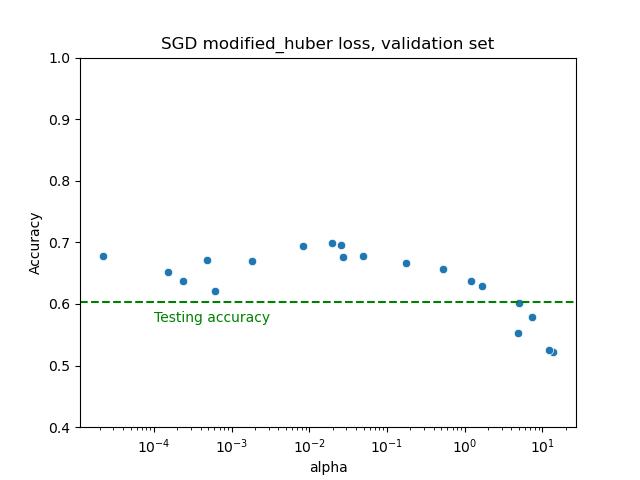
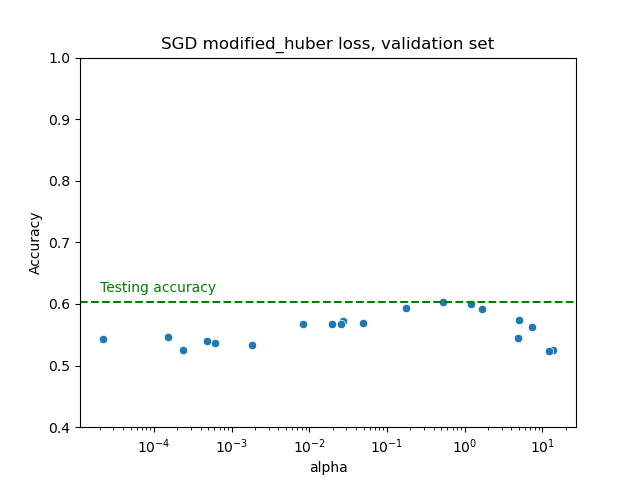
final tweaks ex1

diff --git a/group17/simple_cats_dogs.py b/group17/simple_cats_dogs.py
@@ -66,7 +66,7 @@ for i in ks:
 best_k = ks[np.argmax(valid_acc_KNN)]
 print("bestes k:", best_k)
 
-model = KNN(3072, train_ds.num_classes(), best_k)  # statt i best?
+model = KNN(3072, train_ds.num_classes(), best_k)
 model.train(train.data, train.label)
 acc.reset()
 acc.update(model.predict(test.data), test.label)
@@ -152,20 +152,20 @@ plt.close()
 df_SGD = pd.DataFrame({'alpha': used_alpha, 'loss': used_loss, 'Training': train_acc_SGD, 'Validation': valid_acc_SGD})
 #df_SGD = df_SGD.set_index('alpha')
 
-p2 = sns.scatterplot(x='alpha', y='Training', data=df_SGD.loc[df_SGD['loss'] == 'log'])
+p2 = sns.scatterplot(x='alpha', y='Validation', data=df_SGD.loc[df_SGD['loss'] == 'log'])
 p2.set(xlabel = 'alpha', ylabel = 'Accuracy', xscale="log", title='SGD log loss, validation set')
 p2.axhline(0.6061, color='g', linestyle='--')
-plt.annotate('Testing accuracy', xy=(1e-3, 0.57), color='g')
+plt.annotate('Testing accuracy', xy=(2e-5, 0.62), color='g')
 plt.ylim(y_min, y_max)
 #plt.show()
 plt.savefig('SGD_log.png')
 plt.close()
 
 
-p3 = sns.scatterplot(x='alpha', y='Training', data=df_SGD.loc[df_SGD['loss'] != 'log'])
+p3 = sns.scatterplot(x='alpha', y='Validation', data=df_SGD.loc[df_SGD['loss'] != 'log'])
 p3.set(xlabel = 'alpha', ylabel = 'Accuracy', xscale='log', title='SGD modified_huber loss, validation set')
 p3.axhline(0.6031, color='g', linestyle='--')
-plt.annotate('Testing accuracy', xy=(1e-4, 0.57), color='g')
+plt.annotate('Testing accuracy', xy=(2e-5, 0.62), color='g')
 plt.ylim(y_min, y_max)
 #plt.show()
 plt.savefig('SGD_modified_huber.png')
